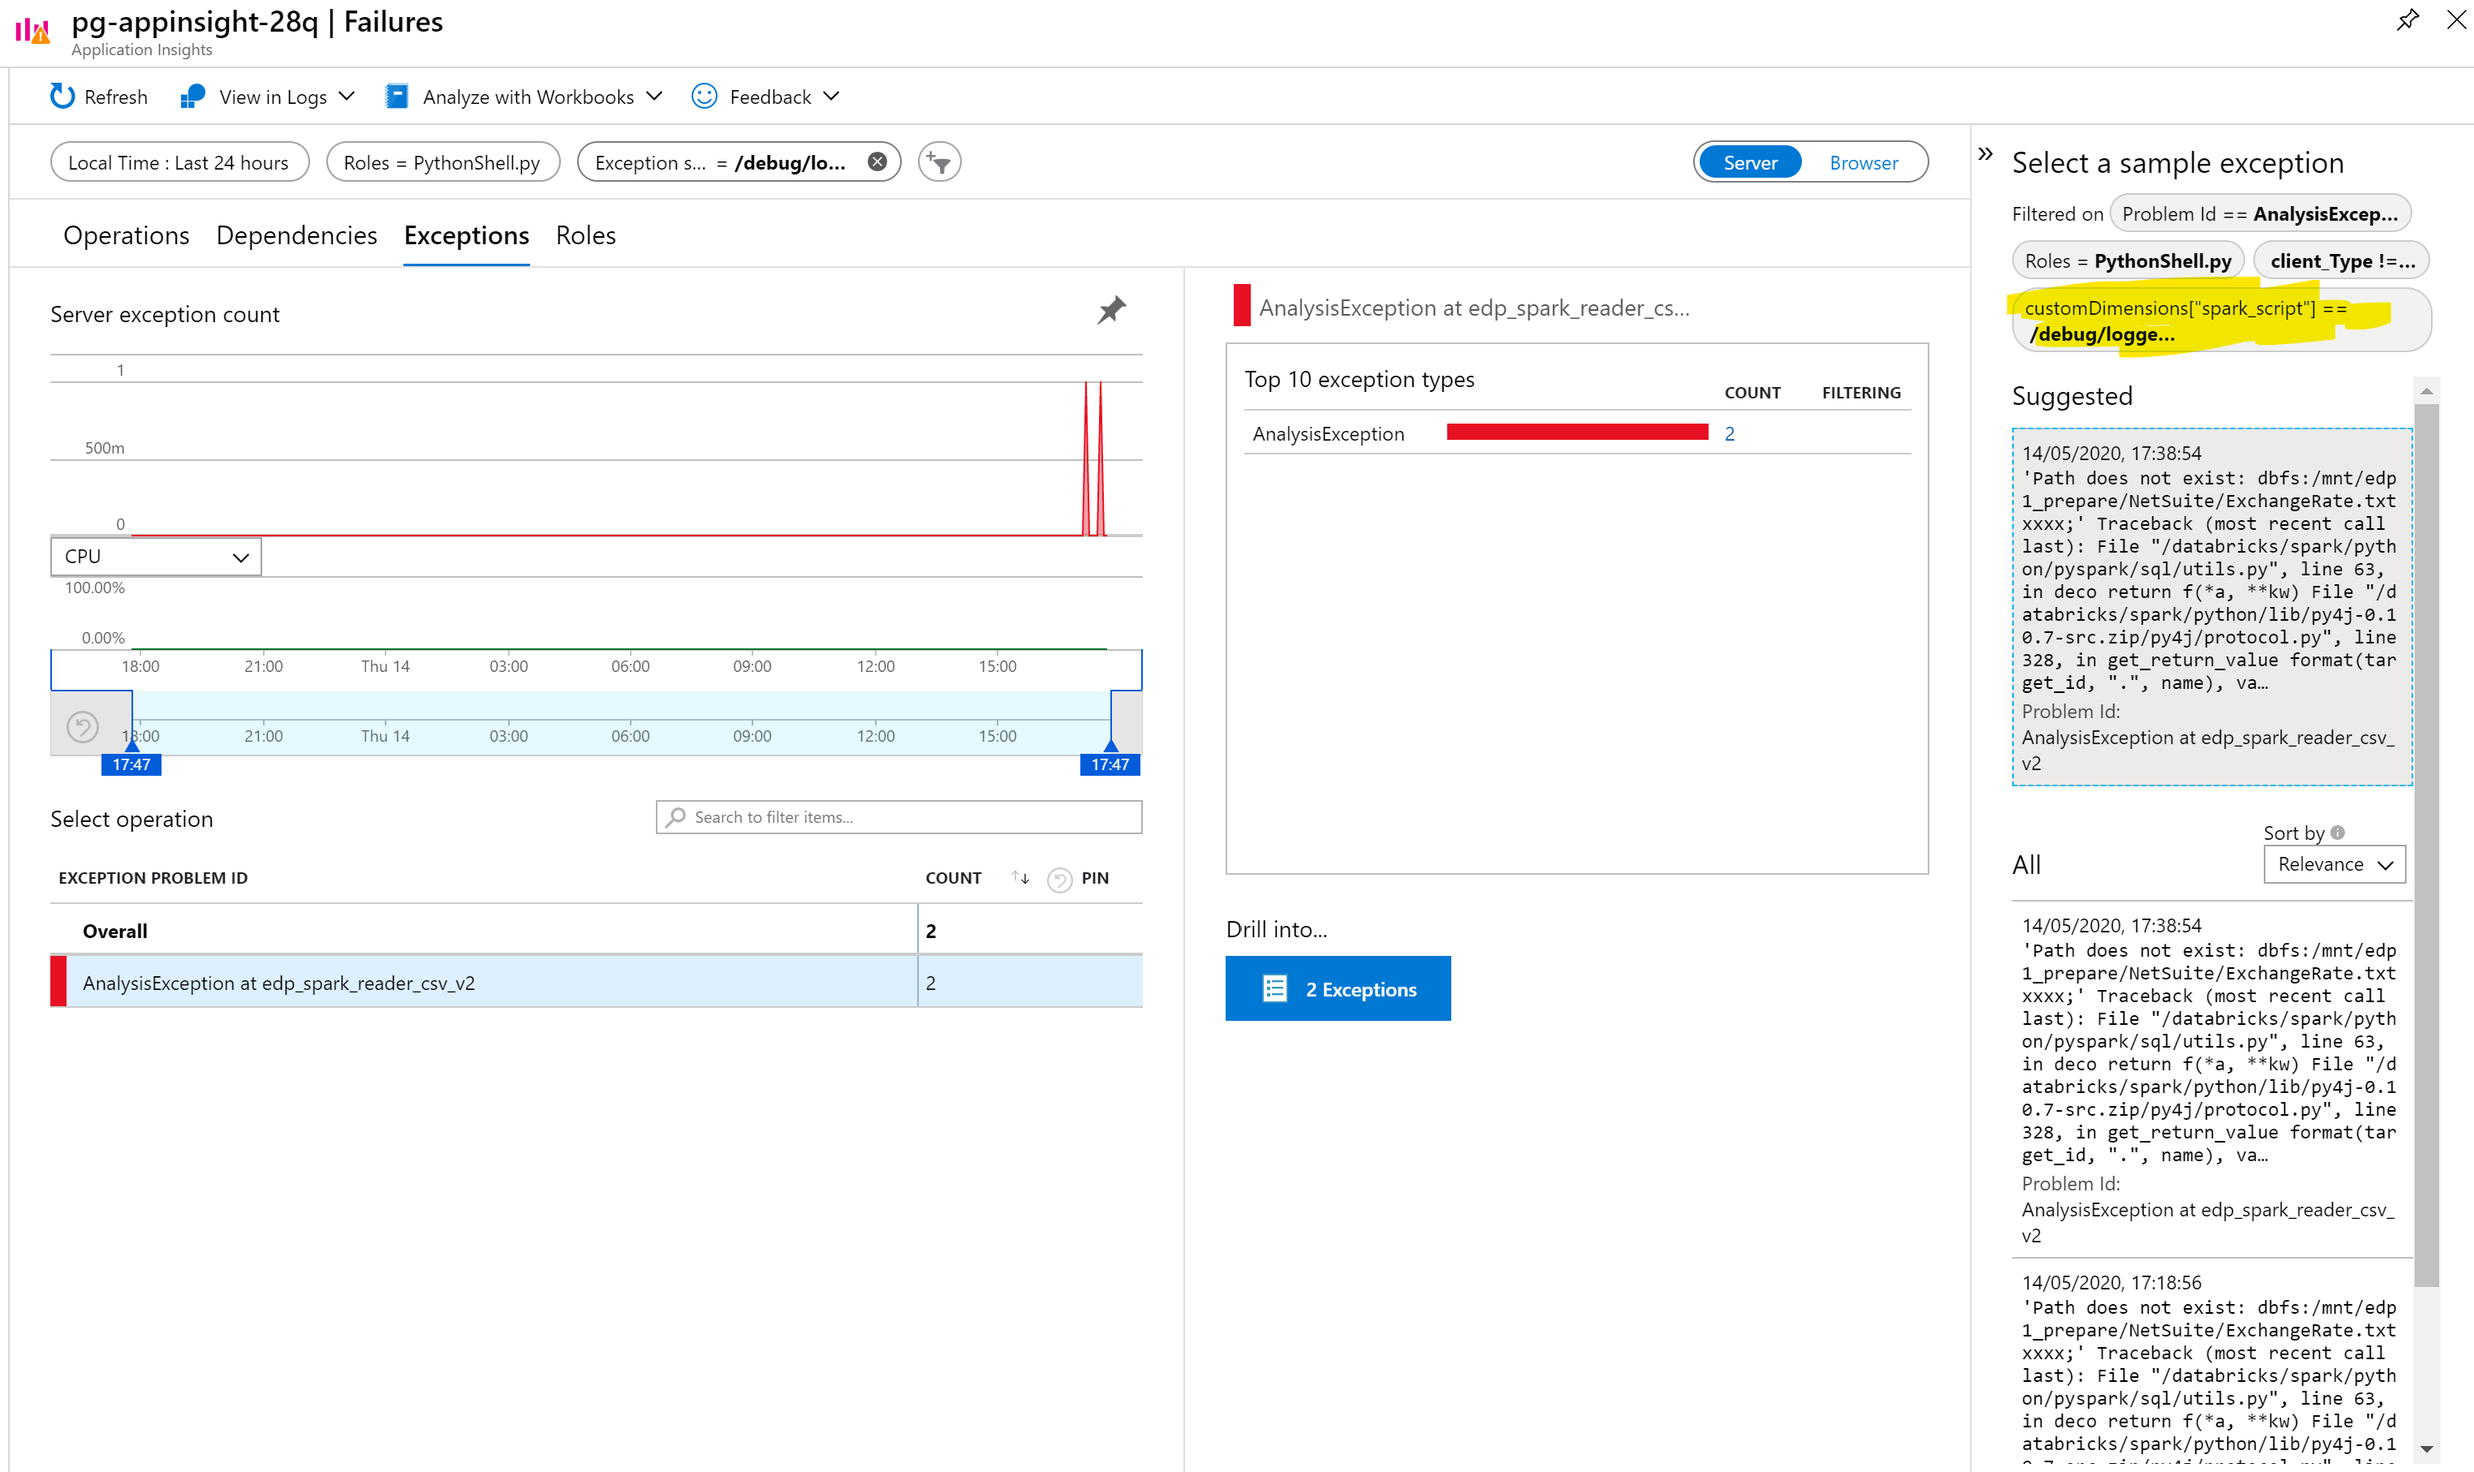
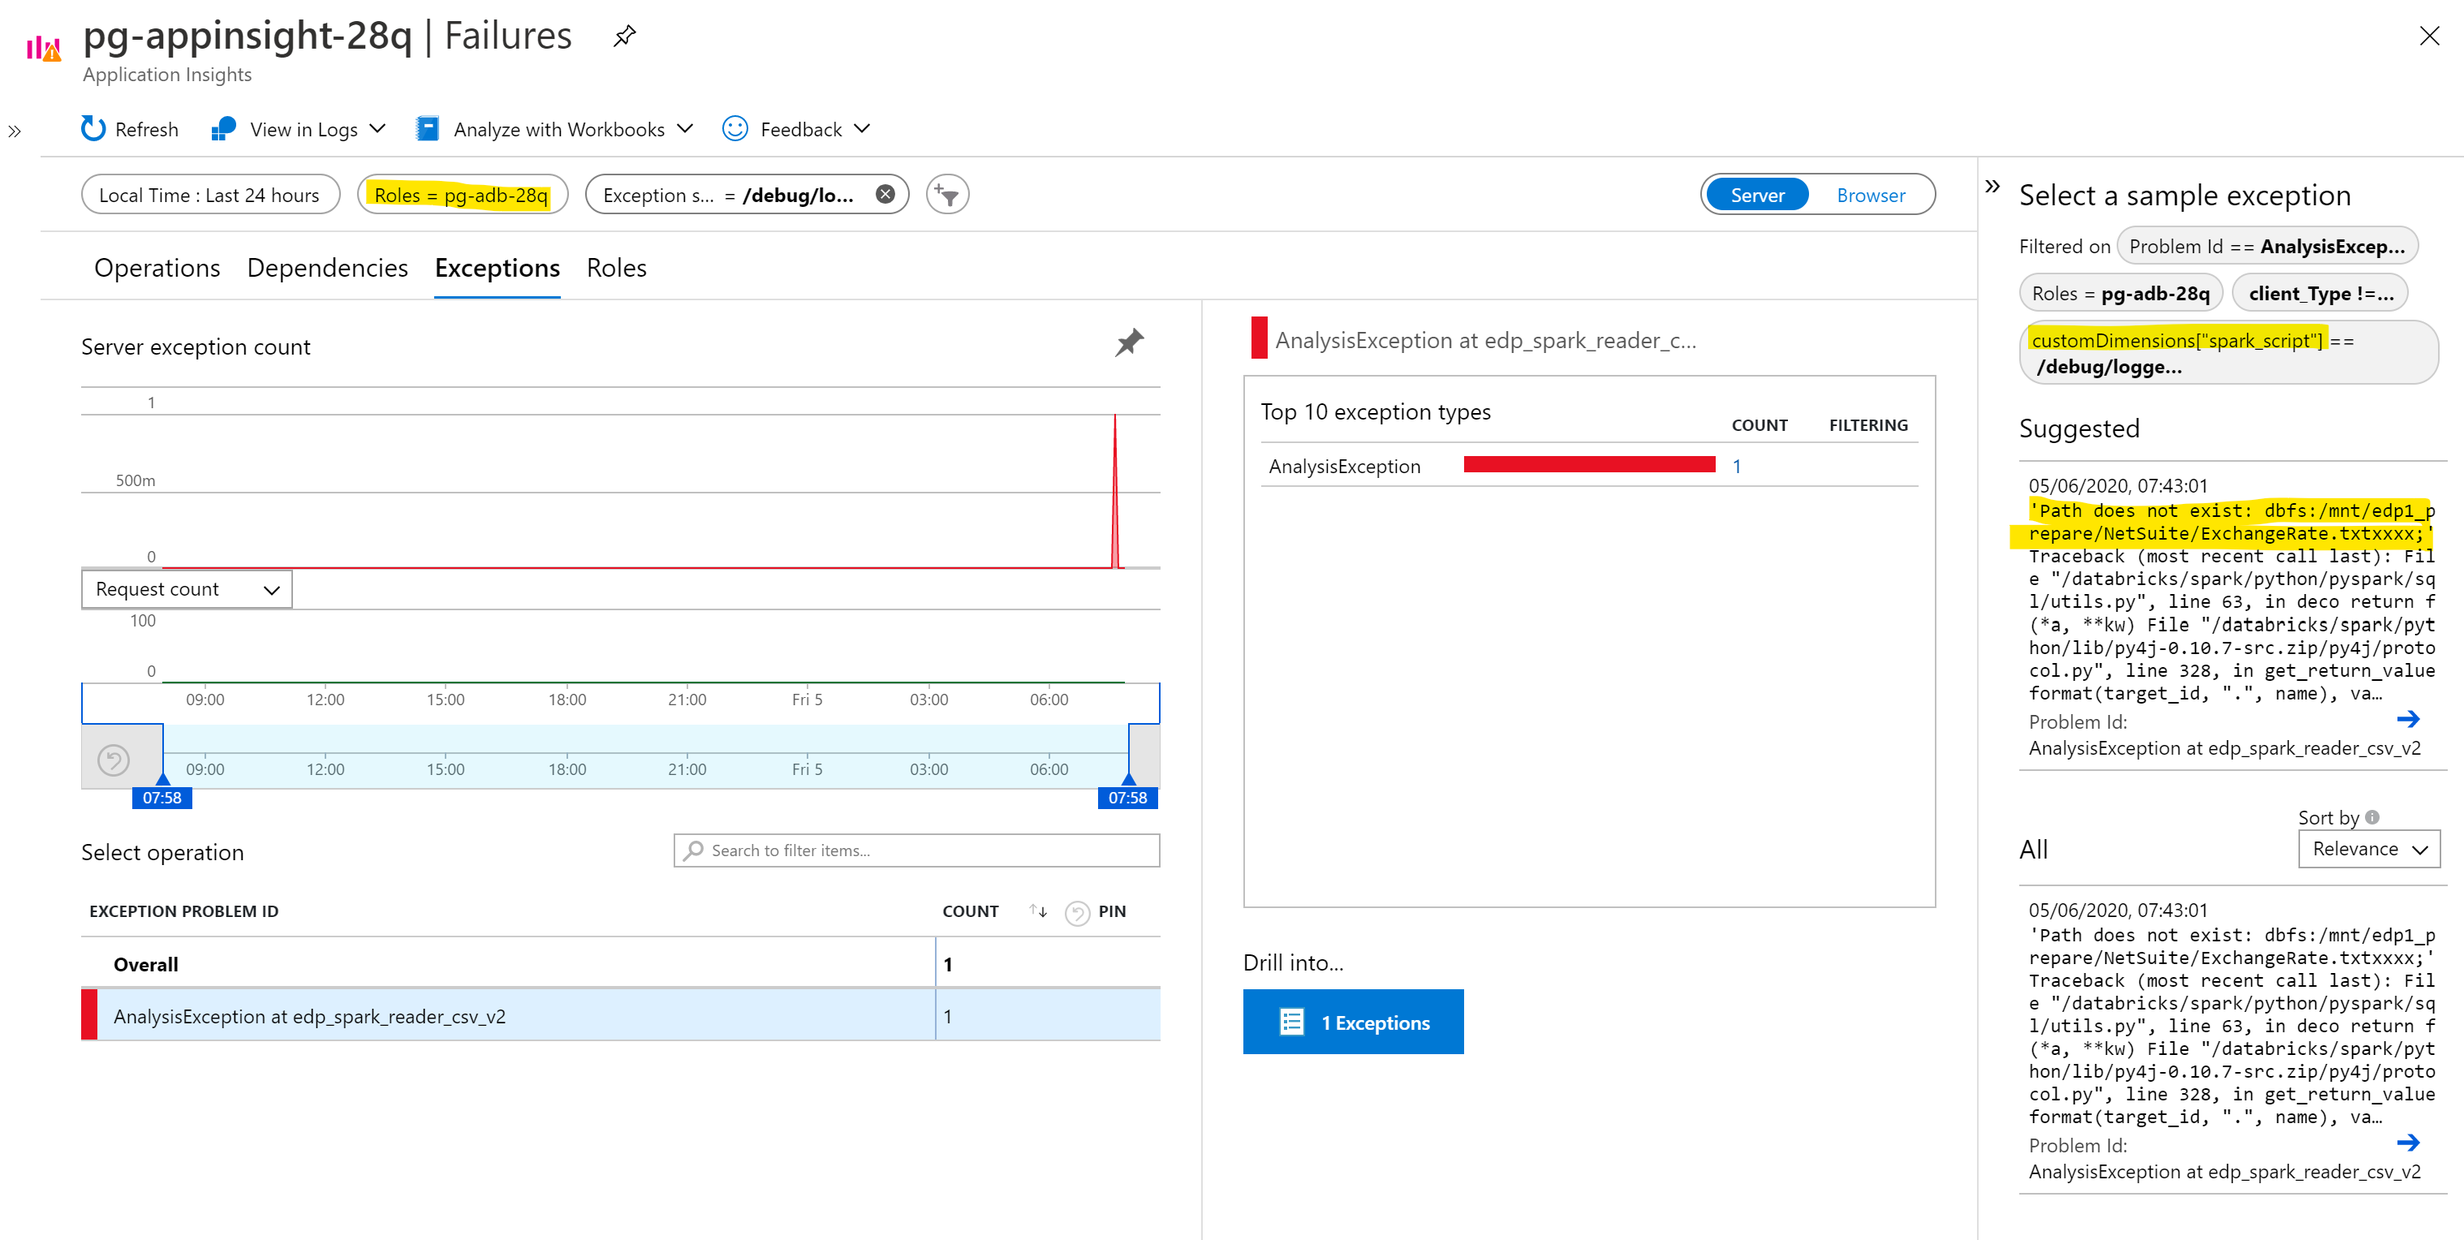
added cloud_RoleName

diff --git a/src/set_logger.py b/src/set_logger.py
@@ -28,7 +28,8 @@ notecontext = json.loads(dbutils.notebook.entry_point.getDbutils().notebook().ge
 def custom_dimension(envelope):
     envelope.data.baseData.properties['spark_script'] = notecontext['extraContext']['notebook_path'],
     envelope.data.baseData.properties['cluster_id'] = notecontext['tags']['clusterId'],
-    envelope.data.baseData.properties['spark_version'] = spark.conf.get("spark.databricks.clusterUsageTags.sparkVersion")
+    envelope.data.baseData.properties['spark_version'] = spark.conf.get("spark.databricks.clusterUsageTags.sparkVersion"),
+    envelope.tags['ai.cloud.role'] = 'pg-adb-28q' ## this will be cloud_RoleName in Azure monitor
     return True
 
 ## adding the custom dimension to the logger

diff --git a/src/example_logger_usage.py b/src/example_logger_usage.py
@@ -1,5 +1,5 @@
 # Databricks notebook source
-# MAGIC %run ../config/set_logger_v5
+# MAGIC %run ../config/set_logger
 
 # COMMAND ----------
 

diff --git a/README.md b/README.md
@@ -1,11 +1,14 @@
 # Apache Spark telemetry to Azure Monitor using OpenTelemetry
 
 ### **Overview**
+
+> **Note:** We previously used [AppInsights SDK for Python](https://github.com/microsoft/ApplicationInsights-Python) to send application logs from apache spark/databricks application. The reason to use OpenTelemetry/Opencensus is because [AppInsights SDK for Python](https://github.com/microsoft/ApplicationInsights-Python) is deprecated and is no longer maintained or supported by Microsoft. Microsoft is a active contributor to OpenTelemetry project.
+
 **What is OpenTelemetry?**
 
 OpenTelemetry provides the libraries, agents, and other components that you need to capture telemetry from your services so that you can better observe, manage, and debug them. Specifically, OpenTelemetry captures metrics, distributed traces, resource metadata, and logs (logging support is incubating now) from your applications and then sends this data to backend like Azure Monitor, Google Cloud Monitoring, Google Cloud Trace, Prometheus, Jaeger and [others](https://opentelemetry.io/registry/?s=exporter).
 
-OpenTelemetry is a *Cloud Native Computing Foundation* Sandbox member, formed through a merger of the OpenTracing and OpenCensus projects.
+OpenTelemetry is a *Cloud Native Computing Foundation* Sandbox member, formed through a merger of the OpenTracing and OpenCensus projects. The project is contributed by Google, Microsoft
 
 > **Why we need OpenCensus?** OpenCensus will be superseded by OpenTelemetry in coming months. However, OpenTelemetry does not initially support **logging**, though it will be incorporated over time. So until then for **logging** purpose we still need to use OpenCensus libraries. [Announcing OpenTelemetry: the merger of OpenCensus and OpenTracing](https://cloudblogs.microsoft.com/opensource/2019/05/23/announcing-opentelemetry-cncf-merged-opencensus-opentracing/)
 
@@ -14,12 +17,11 @@ OpenTelemetry is a *Cloud Native Computing Foundation* Sandbox member, formed th
 
 Observability typically refers to telemetry produced by services and is often divided into three major verticals:
 
-* **Tracing**, aka Distributed Tracing, provides insight into the full life cycles, aka traces, of requests to the system, allowing you to pinpoint failures and performance issues.
-* **Metrics** provide quantitative information about processes running inside the system, including counters, gauges, and histograms.
 * **Logging** provides insight into application-specific messages emitted by processes.
+* **Metrics** provide quantitative information about processes running inside the system, including counters, gauges, and histograms.
+* **Tracing**, aka Distributed Tracing, provides insight into the full life cycles, aka traces, of requests to the system, allowing you to pinpoint failures and performance issues.
 
- 
-> Note: As of May 2020, out of 3 telemetry types - OpenTelemetry doesn't support Logging yet. So until then we have to use OpenCensus for logging. Once OpenTelemetry supports logging this repository and doc will be updated to use OpenTelemetry instead of OpenCensus.
+> Note: As of June 2020, out of 3 telemetry types - OpenTelemetry doesn't support Logging yet. So until then we have to use OpenCensus libraries for logging. Once OpenTelemetry supports logging, this repository and doc will be updated.
 
 These verticals are tightly interconnected. **Metrics** can be used to pinpoint, for example, a subset of misbehaving **traces**. **Logs** associated with those traces could help to find the root cause of this behaviour. And then new **metrics** can be configured, based on this discovery, to catch this issue earlier next time. Other verticals exist (continuous profiling, production debugging, etc.), however traces, metrics, and logs are the three most well adopted across the industry.
 
@@ -34,32 +36,42 @@ These verticals are tightly interconnected. **Metrics** can be used to pinpoint,
 
 #### **How can we use OpenTelemetry/OpenCensus in Apache Spark?**
 
-When working with Apache Spark applications especially if the codebase is pre-dominantly *pyspark* one of the ways to send application logs to Azure Monitor is using OpenTelemetry.
-
-Following is the OpenTelemetry python azure monitor package. This implicitly installs opentelemetry-sdk and opentelemetry-api.
+Following is the [OpenTelemetry python azure monitor package](https://pypi.org/project/opentelemetry-azure-monitor/). This implicitly installs opentelemetry-sdk and opentelemetry-api.
 
 ````python
+# using pip
 pip install opentelemetry-azure-monitor
 ````
-
-Following is the OpenCensus python azure monitor package.
 ````python
+# using databricks CLI
+databricks libraries install --cluster-id "$($clusterId)" --pypi-package "opentelemetry-azure-monitor"
+````
+
+Following is the [OpenCensus python azure monitor package](https://pypi.org/project/opencensus-ext-azure/).
+````python
+# using pip
 pip install opencensus-ext-azure
 ````
-> Note: If using databricks, instead of pip install add the above PyPi libraries to databricks clusters.
+````python
+# using databricks CLI
+databricks libraries install --cluster-id "$($clusterId)" --pypi-package "opencensus-ext-azure"
+````
 
 #### **Define logger**
 > *set_logger.py* uses azure key vault and databricks as an example. But with minor modifications this can be used in any apache spark application and can use any secret or key management tool.
 
-Within this repository there is a script named [set_logger.py](src/set_logger.py). This script encapsulates some of initialisation tasks that are needed to link Apache Spark/databricks and Azure Monitor such as,
+Within this repository there is a script named [set_logger.py](src/set_logger.py). This script encapsulates some of initialisation tasks that are needed to link Apache Spark/Databricks and Azure Monitor such as,
 - import necessary modules
 - define OpenTelemetry azure monitor exporter
-- link databricks and azure monitor using instrumentation key stored in azure key vault.
+- link databricks and azure monitor using instrumentation key stored in azure key vault
 - add custom dimensions
 
 set_logger can be a notebook which can be invoked in another databricks notebook via `%run` dbutils command. Or can be python function.
 
-Once set_logger is defined we can use any [logger](https://docs.python.org/3.7/library/logging.html#logging.Logger) methods such as `logger.info`, `logger.warning`, `logger.exception`, `logger.critical` etc.
+Once set_logger is defined we can use any [logger](https://docs.python.org/3.7/library/logging.html#logging.Logger) methods such as `logger.info`, `logger.warning`, `logger.exception`, `logger.critical` etc. to define and send our application logs to Azure Monitor.
+
+In Azure Monitor, application logs will be available in **traces** tables under application insight scope.
+Metrics will be available in **customMetrics** tables under application insight scope.
 
 #### **Example logger usage**
 Within this repository there is a script named [example_logger_usage.py](src/example_logger_usage.py).
@@ -70,7 +82,7 @@ Following is a example screenshot on how the logs would look like in Azure Monit
 In the image spark_script, spark_version and cluster_id are custom dimensions that we defined in set_logger. We have the ability to filter the logs on specific custom dimension that we have defined either using *Kusto Query Language* or a filter in visualisation.
 
 Example of all severity levels in Azure Monitor logs:
-![](img/screenshot_azure_monitor_log_datarbicks.png)
+![](img/screenshot_azure_monitor_log_databricks.png)
 
 Example of an exception in Azure Monitor logs:
 ![](img/screenshot_azure_monitor_log_exception.png)
@@ -83,3 +95,5 @@ Below is another view in Azure Monitor (under Application Insights failures), in
 [OpenCensus Python Azure Monitor README]( https://github.com/census-instrumentation/opencensus-python/tree/master/contrib/opencensus-ext-azure )
 
 [OpenTelemetry Python Azure Monitor README](https://github.com/microsoft/opentelemetry-azure-monitor-python)
+
+[OpenTelemetry documentation](https://opentelemetry.io/docs/)
